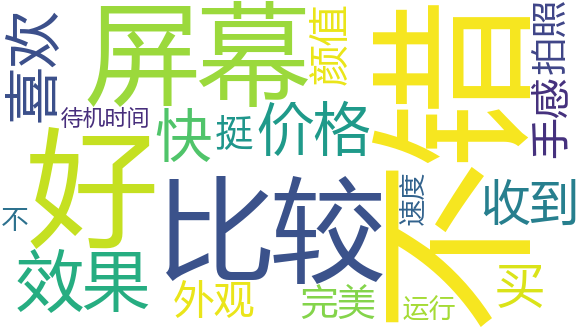
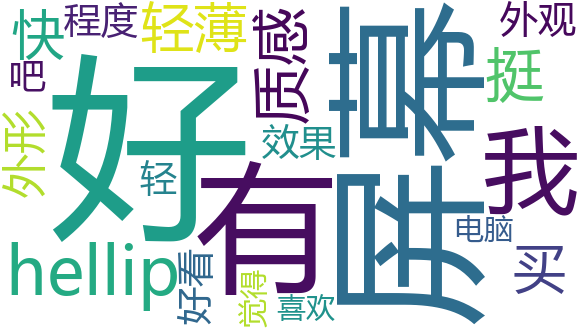
feat: 更新README 新增模块流程图 生成词云图

diff --git a/README.md b/README.md
@@ -1,12 +1,8 @@
 # 京东商城爬虫
 
----
-
 ![](https://img.shields.io/badge/Python-3.11-green.svg)
 
 #### 京东官网 - <https://www.jd.com>
-
----
 
 ## 需求
 
@@ -24,9 +20,7 @@
     - 评价文本：商品详细页，点击商品评价按钮后动态加载，存在分页，一页10条数据
 
 4. 保存数据到**MongoDB或者Redis**，在 **pipelines** 中进行以上操作
-5. 展示前三个商品的评价词云图，包含俩个条件：1.评价数最高；2.商品名称相同 使用 **pyecharts** 生成词云图
-
----
+5. 展示评论数最高的，名称相同的三个商品的评价词云图，包含俩个条件：1.评价数最高；2.商品名称（**型号**）相同 使用 **wordcloud** 生成词云图
 
 ## 数据结构设计
 
@@ -50,16 +44,43 @@
 | 字段名 | 数据类型 | 字段描述 |
 | ----- | ----- | ----- |
 | GoodName | String | 爬取商品名 |
-
----
+| lable_value | String | 爬虫状态文本 |
+| host | String | MongoDB IP |
+| port | Numbers | MongoDB 端口 |
+| db_name | String | 数据库名 |
+| maxCommentCount | Numbers | 最高评论条数 |
+| queryModel | String | 最高评论商品名 |
+| commentStr | String | 最高评论评论字符串 |
+| text | String | 评论分词处理后字符串 |
+| stopwords | List | 词云过滤词集合 |
+| USER_AGENTS | List | 随机请求头列表 |
+| url | String | 发起请求的网址 |
+| js | Dict | 解析json结果 |
 
 ## 模块设计
 
 ### 爬虫模块
 
 1. 配置Scrapy框架运行环境，配置变量
+2. 设置随机请求头中间件、搜索页随机下滑中间件
+3. 运行爬虫程序
+4. 爬取搜索页商品基本信息
+5. 根据商品ID构建商品详细页URL
+6. 解析商品详细页json获得品牌名和商品型号
+7. 根据商品ID构建商品评论页URL
+8. 解析商品详细页json获得商品评论和评论数
+9. 构建Item 传递pipelines
+10. pipelines存入MongoDB
 
 ### 图形界面模块
 
 1. 通过tkinter制作GUI界面，通过输入框获得爬取商品名，将商品名传入爬虫模块，运行爬虫程序
-2. 将生成的词云图展示在GUI界面
+2. 运行词云模块
+3. 将生成的词云图展示在GUI界面
+
+### 词云模块
+
+1. 爬虫程序运行完成后，连接MongoDB数据库
+2. 通过嵌套查询获得评论数最高的，名称相同的三个商品的评价文本
+3. 对评论文本进行预处理，进行分词操作，删除其中的语气词和虚词
+4. 生成词云图保存图片
